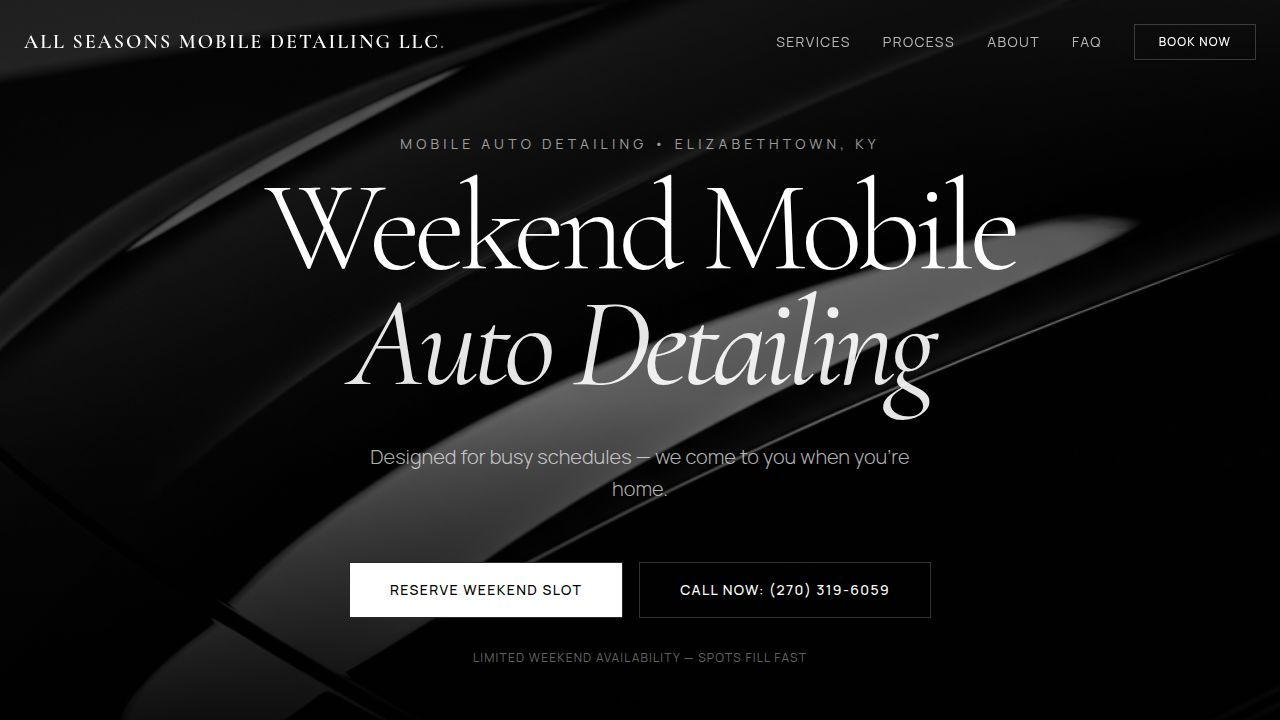
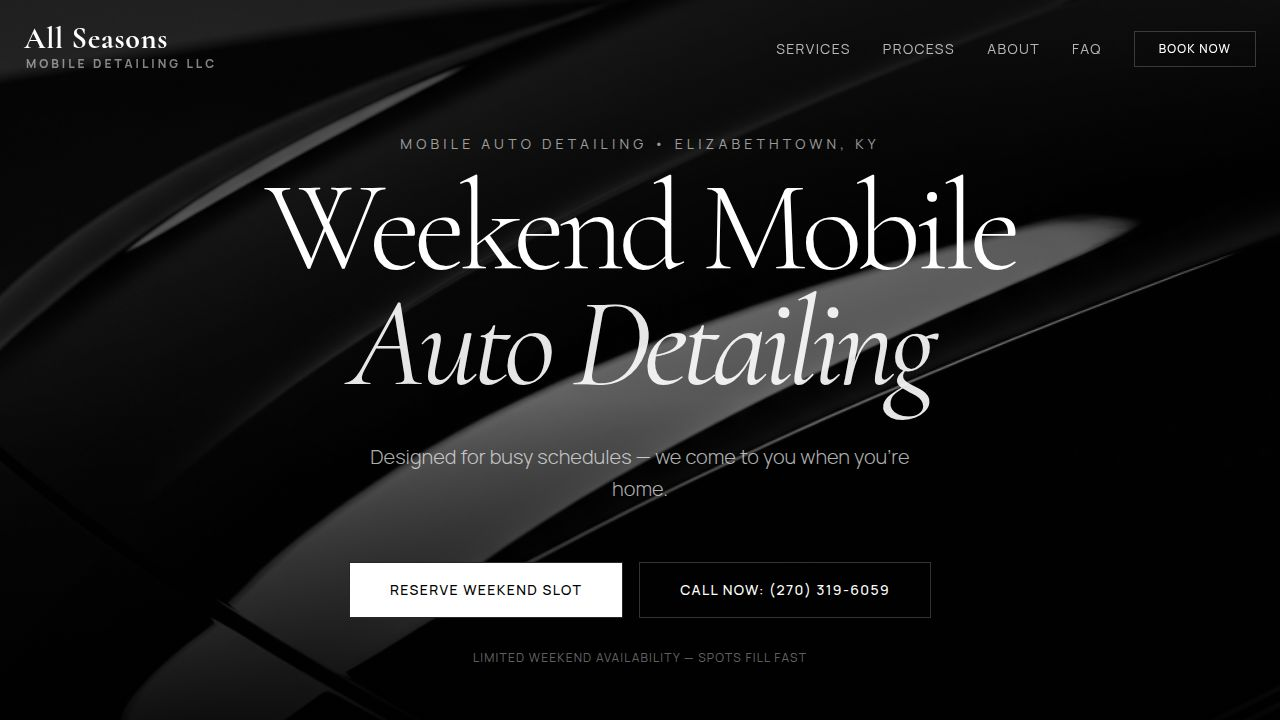
Make business name bold and unique in header and footer
Update the logo in the header and footer to use a mixed typography approach for "All Seasons" and "Mobile Detailing LLC" to create a more prominent and unique brand identity.

Replit-Commit-Author: Agent
Replit-Commit-Session-Id: eac57a1a-53e9-4672-af50-0293dd1e31b0
Replit-Commit-Checkpoint-Type: full_checkpoint
Replit-Commit-Event-Id: 9ebd53e2-e982-4b64-95b6-7b33e222f37b
Replit-Commit-Screenshot-Url: https://storage.googleapis.com/screenshot-production-us-central1/a6ffef6e-06a0-4bb6-8dd4-7a708e0f775e/eac57a1a-53e9-4672-af50-0293dd1e31b0/ylk0qso
Replit-Helium-Checkpoint-Created: true

diff --git a/client/src/components/layout/Footer.tsx b/client/src/components/layout/Footer.tsx
@@ -6,10 +6,13 @@ export function Footer() {
       <div className="container mx-auto px-6">
         <div className="grid md:grid-cols-5 gap-8 mb-12">
           <div className="md:col-span-2">
-            <Link href="/">
-              <h3 className="text-2xl font-serif text-white mb-6 cursor-pointer hover:text-white/90 transition-colors">
-                All Seasons Mobile Detailing LLC<span className="text-white/50">.</span>
-              </h3>
+            <Link href="/" className="block mb-6 group">
+              <span className="block font-serif text-3xl md:text-4xl font-bold text-white tracking-wide leading-none group-hover:text-white/90 transition-colors">
+                All Seasons
+              </span>
+              <span className="block font-sans text-xs md:text-sm font-bold text-white/50 tracking-[0.25em] uppercase leading-relaxed ml-0.5 mt-2 group-hover:text-white/70 transition-colors">
+                Mobile Detailing LLC
+              </span>
             </Link>
             <p className="text-white/50 max-w-sm leading-relaxed mb-6">
               Veteran-owned and operated mobile auto detailing serving Elizabethtown, KY. 

diff --git a/client/src/components/layout/Navbar.tsx b/client/src/components/layout/Navbar.tsx
@@ -59,8 +59,13 @@ export function Navbar() {
       )}
     >
       <div className="container mx-auto px-6 flex items-center justify-between">
-        <Link href="/" className="text-lg md:text-xl font-serif tracking-widest font-semibold text-white uppercase z-50 max-w-[70%] leading-tight">
-          All Seasons Mobile Detailing LLC<span className="text-white/50">.</span>
+        <Link href="/" className="flex flex-col z-50 max-w-[80%] group">
+          <span className="font-serif text-2xl md:text-3xl font-bold text-white tracking-wide leading-none group-hover:text-white/90 transition-colors">
+            All Seasons
+          </span>
+          <span className="font-sans text-[10px] md:text-xs font-bold text-white/50 tracking-[0.25em] uppercase leading-relaxed ml-0.5 group-hover:text-white/70 transition-colors">
+            Mobile Detailing LLC
+          </span>
         </Link>
 
         {/* Desktop Nav */}